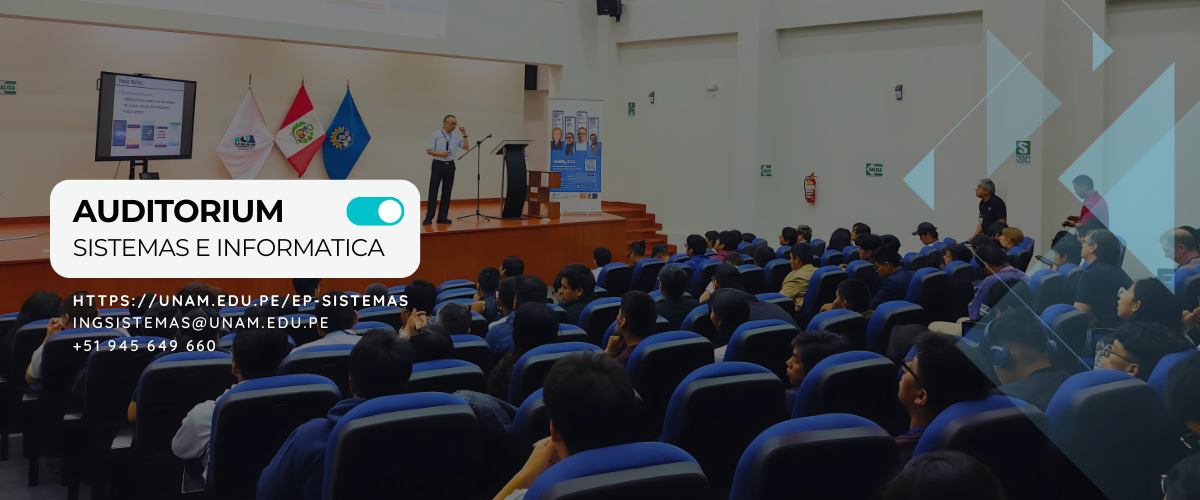
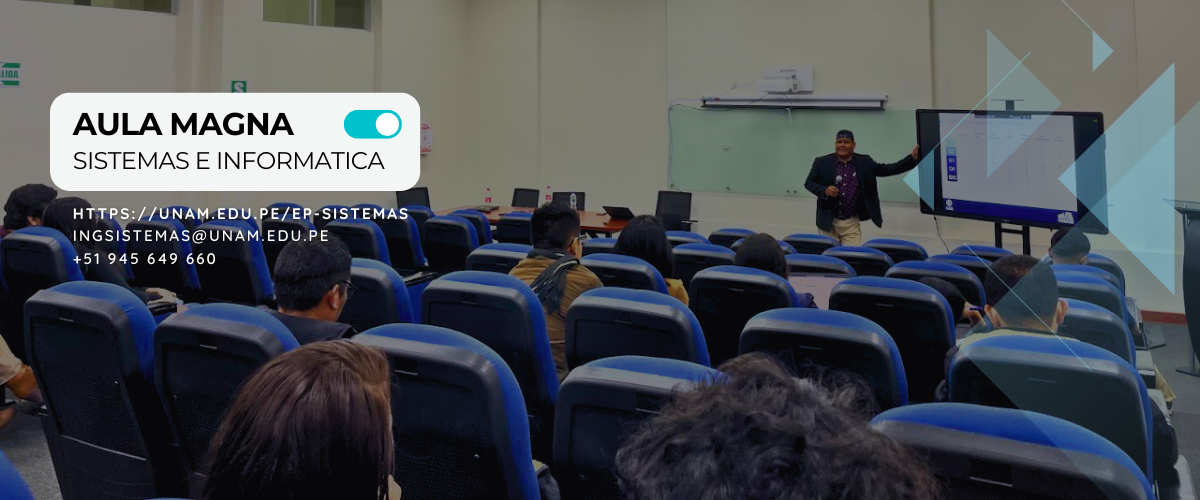
first commit

diff --git a/src/data/eventos.js b/src/data/eventos.js
@@ -3,7 +3,7 @@ export const EVENTOS = [
     title: "AiMARA SUMMIT 2025 - Artificial Intelligence Meeting for Applied Research in the Americas",
     date: "Thursday, July 10, 2025",
     time: "15:00 – 20:00",
-    location: "Auditorio EPISI, UNAM, Ilo",
+    location: "Aula Magna EPISI, UNAM, Ilo",
     image: [
       "../../portada_eventos/aimara2025.png",
       "../../portada_eventos/aimara20252.png",
